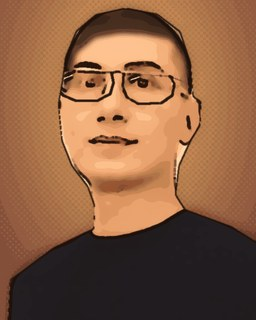
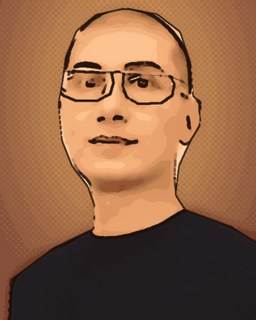
Razim is bald: portrait and 3D model
Only a scatter of hair on the portrait, head.bald on the 3D look.

Changed region(s): [[0.2188, 0.0312, 0.75, 0.3125]]

diff --git a/browser-game/js/main.js b/browser-game/js/main.js
@@ -2347,8 +2347,8 @@ function updateInspector(dt) {
 // you're not in Nederland while he's standing right in front of you. Good-natured: he just wants shoarma with Eddy.
 let razim = null;
 const rnd = (a) => a[Math.floor(Math.random() * a.length)];
-const RAZIM_LOOK = { head: { skin: 0xd6a888, hair: '#1e1814', brow: '#1a1410', hairLine: 64, sideLine: 112, backLine: 140, mouth: 'smile', glasses: true, iris: '#3a2a1e' }, suit: true, suitShirt: 0xffffff, shirt: 0xf1efe8, pants: 0xe9e6de, shoes: 0xcfc7b6, belly: 0.05, skin: 0xd6a888 };
-// Razim is Neon Vice's Money Man (same person): slim, cream suit, white shirt, glasses, buzzcut (hairLine <= 66 = 'buzz'). Portrait: assets/face_razim.jpg.
+const RAZIM_LOOK = { head: { skin: 0xd6a888, hair: '#1e1814', brow: '#1a1410', bald: true, hairLine: 64, sideLine: 112, backLine: 140, mouth: 'smile', glasses: true, iris: '#3a2a1e' }, suit: true, suitShirt: 0xffffff, shirt: 0xf1efe8, pants: 0xe9e6de, shoes: 0xcfc7b6, belly: 0.05, skin: 0xd6a888 };
+// Razim is Neon Vice's Money Man (same person): slim, cream suit, white shirt, glasses, bald (only a scatter of hair, so head.bald). Portrait: assets/face_razim.jpg.
 // He talks like him too: fast, transactional, always pricing something. And shoarma.
 const RAZ_ASK = ['That machine? W 400. I\'d give you 350. Today only.', 'Everybody has a price, Eddy. Your Naknikim? Priceless. Also W 9 an hour.', 'You know what this place needs? A receipt printer.', 'What does this machine do?', 'Is that a Naknik? Hi Naknik!', 'Eddy. Shoarma after this?', 'Can I press this button?', 'Your dad still has that moustache?', 'I could work here. I\'d be good.', 'Ok but after this, shoarma.', 'Eddy, look, I can do a cartwheel. ...No I can\'t.'];
 function razimVisit() {
